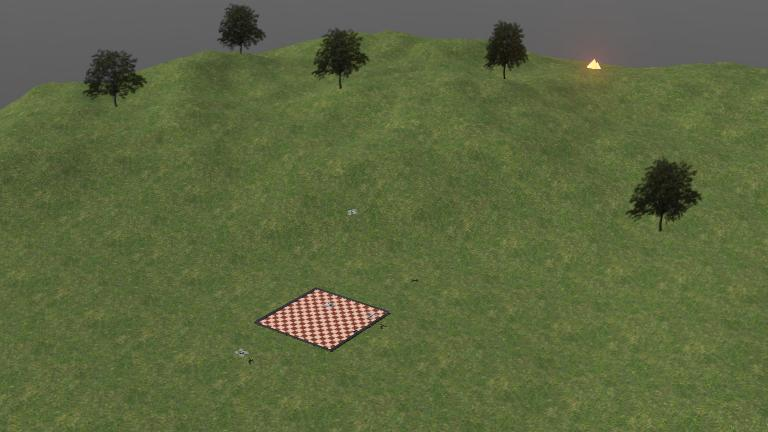
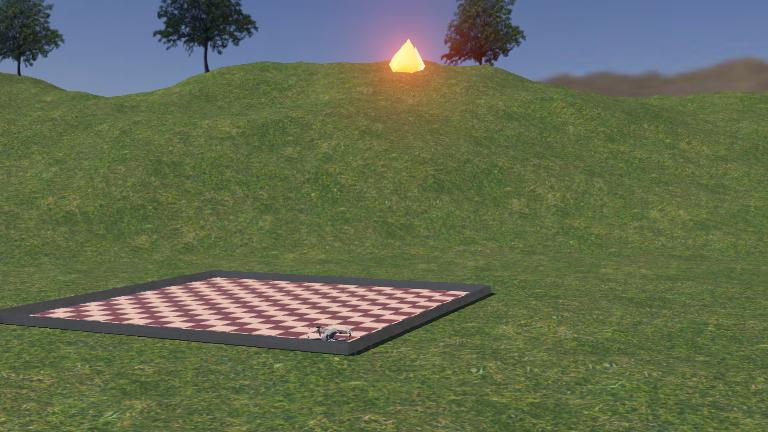
commit11

diff --git a/Controllers/swarm_controller/swarm_env.py b/Controllers/swarm_controller/swarm_env.py
@@ -15,6 +15,13 @@ COLLISION_DIST = 4.0     # Penalty threshold if drones get too close
 DETECTION_RADIUS = 6.0   # Distance inside which a drone "detects" the fire
 MAX_EPISODE_STEPS = 5000 # Maximum steps per episode to prevent infinite loops
 
+# --- NEW SWARM COORDINATION REWARDS ---
+NEIGHBOR_TARGET_DIST = 8.0      # Desired minimum separation between drones
+NEIGHBOR_PENALTY_WEIGHT = 1.5   # Penalty strength for clustering
+NOVELTY_REWARD_WEIGHT = 0.35    # Reward for visiting under-observed cells
+NEW_CELL_REWARD = 1.0           # Bonus for visiting a completely new cell
+VELOCITY_REWARD_WEIGHT = 0.03   # Reward for useful motion
+
 class WildfireSwarmEnv:
     def __init__(self, supervisor_instance: Supervisor):
         self.sv = supervisor_instance
@@ -35,6 +42,7 @@ class WildfireSwarmEnv:
         # Track which drones have already received a detection reward this episode
         self.has_detected_fire = {i: False for i in range(NUM_DRONES)}
         self.last_fire_distances = {}
+        self.prev_positions = {}
         self.step_count = 0
         self.flipped = False
         
@@ -53,6 +61,7 @@ class WildfireSwarmEnv:
         # Initialize Forest Coverage Grid Tracking Matrix
         self.grid_cells = int(np.ceil(FOREST_SIZE / GRID_RESOLUTION))
         self.coverage_grid = np.zeros((self.grid_cells, self.grid_cells), dtype=np.int32)
+        self.visitation_grid = np.zeros((self.grid_cells, self.grid_cells), dtype=np.int32)
 
     def _spawn_swarm(self):
         root = self.sv.getRoot()
@@ -106,9 +115,15 @@ class WildfireSwarmEnv:
             self.camera_node.getField("rotation").setSFRotation(self.initial_camera_state["rotation"])
         
         self.coverage_grid.fill(0)
+        self.visitation_grid.fill(0)
         # Clear per-drone detection flags and reward shaping state at the start of each episode
         self.has_detected_fire = {i: False for i in range(NUM_DRONES)}
         self.last_fire_distances = {}
+        self.prev_positions = {
+            i: np.array(self.initial_states[i]["translation"][:2], dtype=np.float32)
+            if i in self.initial_states else np.array([0.0, 0.0], dtype=np.float32)
+            for i in range(NUM_DRONES)
+        }
         self.step_count = 0
         self.flipped = False
         self.sv.step(self.timestep)
@@ -184,45 +199,50 @@ class WildfireSwarmEnv:
     def compute_step_rewards(self) -> Tuple[float, Dict[int, bool]]:
         """
         Calculates the global collective cooperative reward pool.
-        Encourages dynamic exploration, penalizes overlaps, rewards fire sweeps.
+        Encourages broad coverage, penalizes clustering, and rewards useful motion.
         """
         shared_reward = 0.0
         detections = {i: False for i in range(NUM_DRONES)}
         fire_pos = self.get_global_fire_pos()
         positions = [np.array(d.getPosition()) if d else np.array([0.,0.,0.]) for d in self.drones]
 
-        # 1. Coverage Reward Allocation Loop
+        # 1. Coverage / novelty reward allocation loop
         for i, my_pos in enumerate(positions):
-            # Map physical continuous position coordinates down into our virtual index array grid
             grid_x = int((my_pos[0] - FOREST_ORIGIN[0]) / GRID_RESOLUTION)
             grid_y = int((my_pos[1] - FOREST_ORIGIN[1]) / GRID_RESOLUTION)
-            
+
             if 0 <= grid_x < self.grid_cells and 0 <= grid_y < self.grid_cells:
                 if self.coverage_grid[grid_x, grid_y] == 0:
                     self.coverage_grid[grid_x, grid_y] = 1
-                    shared_reward += 1.0  # Smaller exploration bonus so the agent focuses on finding the fire
+                    shared_reward += NEW_CELL_REWARD
 
-        # 1.5 Boundary Constraint: Penalize drones wandering too far from forest area
-        # Prevents extreme exploration that destabilizes the drone
+                visit_count = int(self.visitation_grid[grid_x, grid_y])
+                novelty_bonus = NOVELTY_REWARD_WEIGHT / (1.0 + visit_count)
+                shared_reward += novelty_bonus
+                self.visitation_grid[grid_x, grid_y] += 1
+
+        # 1.5 Boundary constraint: penalize wandering too far from the forest area
         for i, my_pos in enumerate(positions):
-            boundary = (FOREST_SIZE / 2.0) * 0.75  # Allow exploration up to 75% of forest half-width from center
+            boundary = (FOREST_SIZE / 2.0) * 0.75
             distance_from_center = np.linalg.norm(my_pos[:2] - FOREST_CENTER)
             if distance_from_center > boundary:
                 excess = distance_from_center - boundary
-                shared_reward -= 0.5 * excess  # Stronger penalty for leaving the forest boundary
-                # print(f"Drone {i} boundary penalty: {excess:.2f}m beyond allowed forest radius.")
+                shared_reward -= 0.5 * excess
 
-        # 2. Team Proximity Proximity Penalties
+        # 2. Team proximity penalties to discourage clustering
         for i in range(NUM_DRONES):
             for j in range(i + 1, NUM_DRONES):
-                dist = np.linalg.norm(positions[i] - positions[j])
-                if dist < COLLISION_DIST:
-                    shared_reward -= 10.0 * (COLLISION_DIST - dist)  # Progressive safety constraint
+                dist = np.linalg.norm(positions[i][:2] - positions[j][:2])
+                if dist < NEIGHBOR_TARGET_DIST:
+                    shared_reward -= NEIGHBOR_PENALTY_WEIGHT * (NEIGHBOR_TARGET_DIST - dist)
 
         # 3. Dense reward shaping for approaching the fire
         for i, my_pos in enumerate(positions):
-            dist_to_fire = np.linalg.norm(my_pos[:2] - fire_pos[:2])  # 2D Ground distance
+            dist_to_fire = np.linalg.norm(my_pos[:2] - fire_pos[:2])
             prev_dist = self.last_fire_distances.get(i)
+            prev_pos = self.prev_positions.get(i)
+            grid_x = int((my_pos[0] - FOREST_ORIGIN[0]) / GRID_RESOLUTION)
+            grid_y = int((my_pos[1] - FOREST_ORIGIN[1]) / GRID_RESOLUTION)
 
             if prev_dist is not None:
                 dist_change = prev_dist - dist_to_fire
@@ -231,19 +251,30 @@ class WildfireSwarmEnv:
                 else:
                     shared_reward -= 0.20 * abs(dist_change)
 
+            if prev_pos is not None:
+                travel = np.linalg.norm(my_pos[:2] - prev_pos[:2])
+                if travel > 0.05:
+                    useful_motion = False
+                    if prev_dist is not None and (prev_dist - dist_to_fire) > 0.05:
+                        useful_motion = True
+                    if 0 <= grid_x < self.grid_cells and 0 <= grid_y < self.grid_cells:
+                        if self.coverage_grid[grid_x, grid_y] == 1 and self.visitation_grid[grid_x, grid_y] == 1:
+                            useful_motion = True
+                    if useful_motion:
+                        shared_reward += VELOCITY_REWARD_WEIGHT * travel
+
             if dist_to_fire <= DETECTION_RADIUS:
-                # Mark current detection (used for done condition)
                 detections[i] = True
-                # Give a one-time positive reward the first time this drone detects the fire
                 if not self.has_detected_fire.get(i, False):
                     self.has_detected_fire[i] = True
                     shared_reward += 50.0
-                    print(f"Drone {i} entered detection radius at {dist_to_fire:.2f}m and received the reward.")
 
             self.last_fire_distances[i] = dist_to_fire
 
-        # Per-step cost: Encourages agent to find fire quickly without wasting time
-        # Over 5000 steps, this accumulates to -500 penalty, making slow search much more expensive
+        # Update previous positions for the next step after reward evaluation
+        self.prev_positions = {i: np.array(pos[:2], dtype=np.float32) for i, pos in enumerate(positions)}
+
+        # Per-step cost: encourage efficient search without wasting time
         shared_reward -= 0.10
 
         return shared_reward, detections